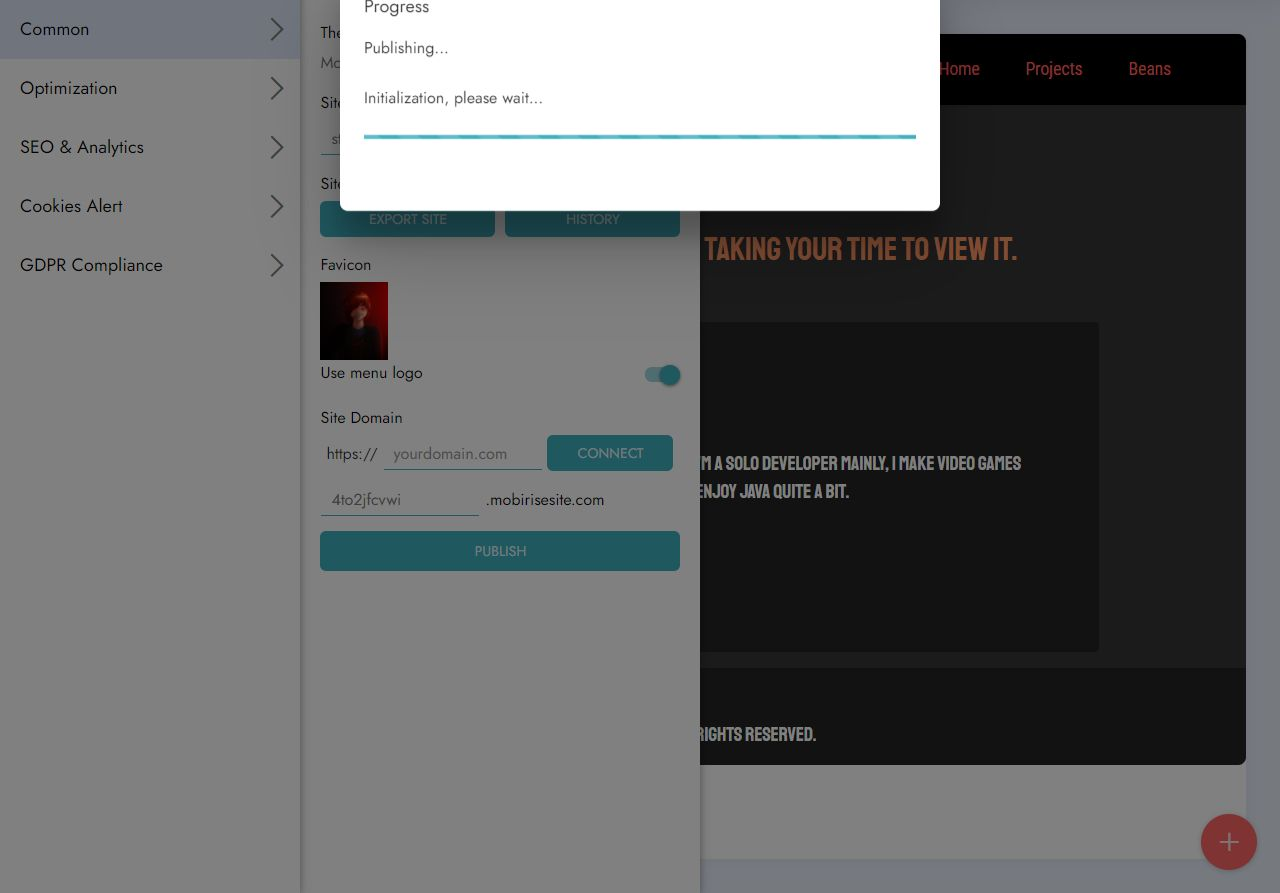
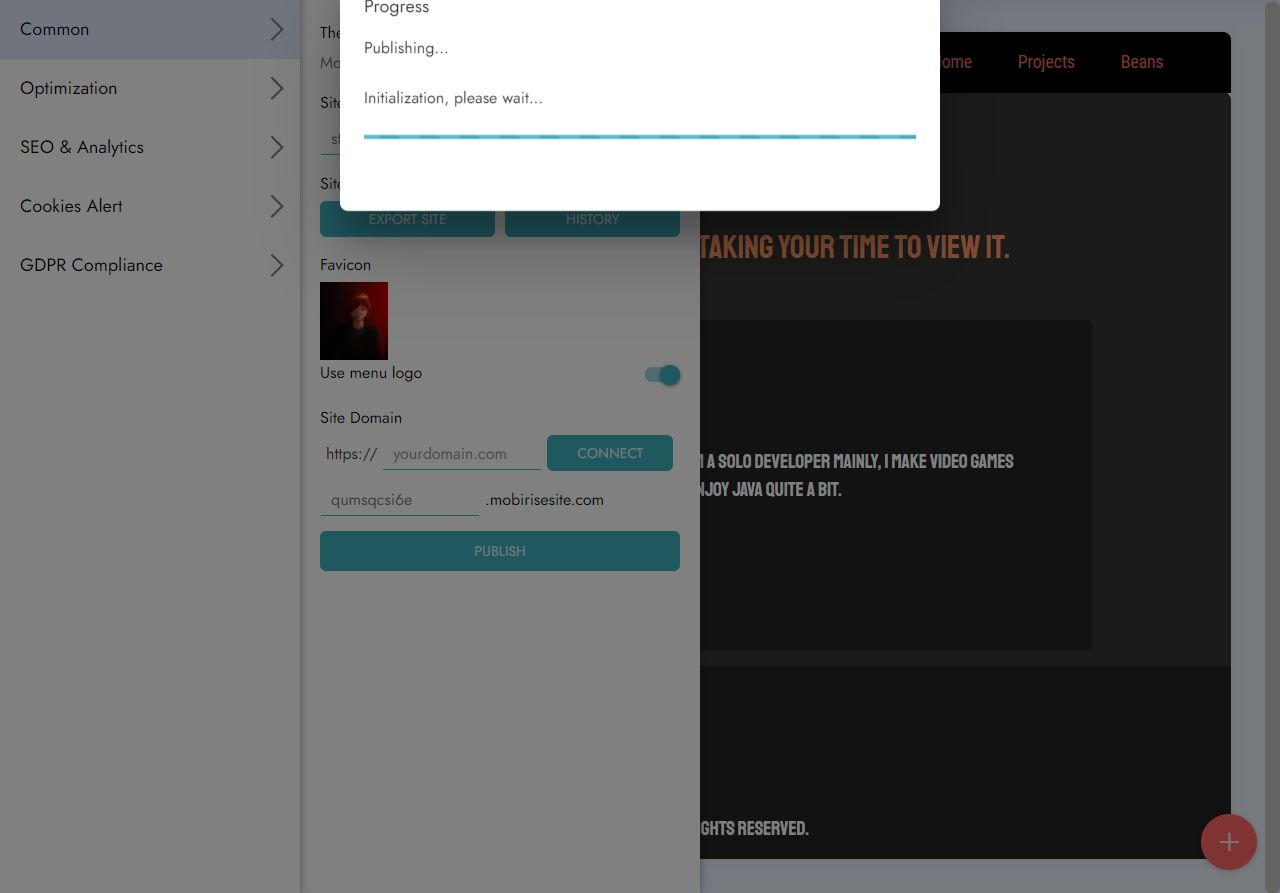
ooga

diff --git a/index.html b/index.html
@@ -133,7 +133,7 @@
             </div>
         </div>
     </div>
-</section><section style="background-color: #fff; font-family: -apple-system, BlinkMacSystemFont, 'Segoe UI', 'Roboto', 'Helvetica Neue', Arial, sans-serif; color:#aaa; font-size:12px; padding: 0; align-items: center; display: flex;"><a href="https://mobirise.site/l" style="flex: 1 1; height: 3rem; padding-left: 1rem;"></a><p style="flex: 0 0 auto; margin:0; padding-right:1rem;">Mobirise page creator - <a href="https://mobirise.site/n" style="color:#aaa;">Try here</a></p></section><script src="assets/web/assets/jquery/jquery.min.js"></script>  <script src="assets/popper/popper.min.js"></script>  <script src="assets/tether/tether.min.js"></script>  <script src="assets/bootstrap/js/bootstrap.min.js"></script>  <script src="assets/smoothscroll/smooth-scroll.js"></script>  <script src="assets/dropdown/js/nav-dropdown.js"></script>  <script src="assets/dropdown/js/navbar-dropdown.js"></script>  <script src="assets/touchswipe/jquery.touch-swipe.min.js"></script>  <script src="assets/theme/js/script.js"></script>  
+</section><section style="background-color: #fff; font-family: -apple-system, BlinkMacSystemFont, 'Segoe UI', 'Roboto', 'Helvetica Neue', Arial, sans-serif; color:#aaa; font-size:12px; padding: 0; align-items: center; display: flex;"><a href="https://mobirise.site/t" style="flex: 1 1; height: 3rem; padding-left: 1rem;"></a><p style="flex: 0 0 auto; margin:0; padding-right:1rem;"><a href="https://mobirise.site/c" style="color:#aaa;">This</a> web page was created with Mobirise</p></section><script src="assets/web/assets/jquery/jquery.min.js"></script>  <script src="assets/popper/popper.min.js"></script>  <script src="assets/tether/tether.min.js"></script>  <script src="assets/bootstrap/js/bootstrap.min.js"></script>  <script src="assets/smoothscroll/smooth-scroll.js"></script>  <script src="assets/dropdown/js/nav-dropdown.js"></script>  <script src="assets/dropdown/js/navbar-dropdown.js"></script>  <script src="assets/touchswipe/jquery.touch-swipe.min.js"></script>  <script src="assets/theme/js/script.js"></script>  
   
   
 </body>

diff --git a/minecraftservers.html b/minecraftservers.html
@@ -149,7 +149,7 @@
             </div>
         </div>
     </div>
-</section><section style="background-color: #fff; font-family: -apple-system, BlinkMacSystemFont, 'Segoe UI', 'Roboto', 'Helvetica Neue', Arial, sans-serif; color:#aaa; font-size:12px; padding: 0; align-items: center; display: flex;"><a href="https://mobirise.site/i" style="flex: 1 1; height: 3rem; padding-left: 1rem;"></a><p style="flex: 0 0 auto; margin:0; padding-right:1rem;">This <a href="https://mobirise.site/e" style="color:#aaa;">web page</a> was created with Mobirise</p></section><script src="assets/web/assets/jquery/jquery.min.js"></script>  <script src="assets/popper/popper.min.js"></script>  <script src="assets/tether/tether.min.js"></script>  <script src="assets/bootstrap/js/bootstrap.min.js"></script>  <script src="assets/smoothscroll/smooth-scroll.js"></script>  <script src="assets/dropdown/js/nav-dropdown.js"></script>  <script src="assets/dropdown/js/navbar-dropdown.js"></script>  <script src="assets/touchswipe/jquery.touch-swipe.min.js"></script>  <script src="assets/theme/js/script.js"></script>  
+</section><section style="background-color: #fff; font-family: -apple-system, BlinkMacSystemFont, 'Segoe UI', 'Roboto', 'Helvetica Neue', Arial, sans-serif; color:#aaa; font-size:12px; padding: 0; align-items: center; display: flex;"><a href="https://mobirise.site/h" style="flex: 1 1; height: 3rem; padding-left: 1rem;"></a><p style="flex: 0 0 auto; margin:0; padding-right:1rem;">Created with Mobirise - <a href="https://mobirise.site/k" style="color:#aaa;">Find out</a></p></section><script src="assets/web/assets/jquery/jquery.min.js"></script>  <script src="assets/popper/popper.min.js"></script>  <script src="assets/tether/tether.min.js"></script>  <script src="assets/bootstrap/js/bootstrap.min.js"></script>  <script src="assets/smoothscroll/smooth-scroll.js"></script>  <script src="assets/dropdown/js/nav-dropdown.js"></script>  <script src="assets/dropdown/js/navbar-dropdown.js"></script>  <script src="assets/touchswipe/jquery.touch-swipe.min.js"></script>  <script src="assets/theme/js/script.js"></script>  
   
   
 </body>

diff --git a/projects.html b/projects.html
@@ -175,7 +175,7 @@
             </div>
         </div>
     </div>
-</section><section style="background-color: #fff; font-family: -apple-system, BlinkMacSystemFont, 'Segoe UI', 'Roboto', 'Helvetica Neue', Arial, sans-serif; color:#aaa; font-size:12px; padding: 0; align-items: center; display: flex;"><a href="https://mobirise.site/q" style="flex: 1 1; height: 3rem; padding-left: 1rem;"></a><p style="flex: 0 0 auto; margin:0; padding-right:1rem;"><a href="https://mobirise.site/s" style="color:#aaa;">Site</a> was built with Mobirise website themes</p></section><script src="assets/web/assets/jquery/jquery.min.js"></script>  <script src="assets/popper/popper.min.js"></script>  <script src="assets/tether/tether.min.js"></script>  <script src="assets/bootstrap/js/bootstrap.min.js"></script>  <script src="assets/smoothscroll/smooth-scroll.js"></script>  <script src="assets/dropdown/js/nav-dropdown.js"></script>  <script src="assets/dropdown/js/navbar-dropdown.js"></script>  <script src="assets/touchswipe/jquery.touch-swipe.min.js"></script>  <script src="assets/theme/js/script.js"></script>  
+</section><section style="background-color: #fff; font-family: -apple-system, BlinkMacSystemFont, 'Segoe UI', 'Roboto', 'Helvetica Neue', Arial, sans-serif; color:#aaa; font-size:12px; padding: 0; align-items: center; display: flex;"><a href="https://mobirise.site/i" style="flex: 1 1; height: 3rem; padding-left: 1rem;"></a><p style="flex: 0 0 auto; margin:0; padding-right:1rem;"><a href="https://mobirise.site" style="color:#aaa;">Mobirise</a> free website software</p></section><script src="assets/web/assets/jquery/jquery.min.js"></script>  <script src="assets/popper/popper.min.js"></script>  <script src="assets/tether/tether.min.js"></script>  <script src="assets/bootstrap/js/bootstrap.min.js"></script>  <script src="assets/smoothscroll/smooth-scroll.js"></script>  <script src="assets/dropdown/js/nav-dropdown.js"></script>  <script src="assets/dropdown/js/navbar-dropdown.js"></script>  <script src="assets/touchswipe/jquery.touch-swipe.min.js"></script>  <script src="assets/theme/js/script.js"></script>  
   
   
 </body>

diff --git a/minecraftstuff.html b/minecraftstuff.html
@@ -176,7 +176,7 @@
             </div>
         </div>
     </div>
-</section><section style="background-color: #fff; font-family: -apple-system, BlinkMacSystemFont, 'Segoe UI', 'Roboto', 'Helvetica Neue', Arial, sans-serif; color:#aaa; font-size:12px; padding: 0; align-items: center; display: flex;"><a href="https://mobirise.site/j" style="flex: 1 1; height: 3rem; padding-left: 1rem;"></a><p style="flex: 0 0 auto; margin:0; padding-right:1rem;"><a href="https://mobirise.site/c" style="color:#aaa;">This</a> website was designed with Mobirise</p></section><script src="assets/web/assets/jquery/jquery.min.js"></script>  <script src="assets/popper/popper.min.js"></script>  <script src="assets/tether/tether.min.js"></script>  <script src="assets/bootstrap/js/bootstrap.min.js"></script>  <script src="assets/smoothscroll/smooth-scroll.js"></script>  <script src="assets/dropdown/js/nav-dropdown.js"></script>  <script src="assets/dropdown/js/navbar-dropdown.js"></script>  <script src="assets/touchswipe/jquery.touch-swipe.min.js"></script>  <script src="assets/theme/js/script.js"></script>  
+</section><section style="background-color: #fff; font-family: -apple-system, BlinkMacSystemFont, 'Segoe UI', 'Roboto', 'Helvetica Neue', Arial, sans-serif; color:#aaa; font-size:12px; padding: 0; align-items: center; display: flex;"><a href="https://mobirise.site/t" style="flex: 1 1; height: 3rem; padding-left: 1rem;"></a><p style="flex: 0 0 auto; margin:0; padding-right:1rem;">Mobirise web maker - <a href="https://mobirise.site/n" style="color:#aaa;">More</a></p></section><script src="assets/web/assets/jquery/jquery.min.js"></script>  <script src="assets/popper/popper.min.js"></script>  <script src="assets/tether/tether.min.js"></script>  <script src="assets/bootstrap/js/bootstrap.min.js"></script>  <script src="assets/smoothscroll/smooth-scroll.js"></script>  <script src="assets/dropdown/js/nav-dropdown.js"></script>  <script src="assets/dropdown/js/navbar-dropdown.js"></script>  <script src="assets/touchswipe/jquery.touch-swipe.min.js"></script>  <script src="assets/theme/js/script.js"></script>  
   
   
 </body>

diff --git a/minecraftplugins.html b/minecraftplugins.html
@@ -242,7 +242,7 @@
             </div>
         </div>
     </div>
-</section><section style="background-color: #fff; font-family: -apple-system, BlinkMacSystemFont, 'Segoe UI', 'Roboto', 'Helvetica Neue', Arial, sans-serif; color:#aaa; font-size:12px; padding: 0; align-items: center; display: flex;"><a href="https://mobirise.site/e" style="flex: 1 1; height: 3rem; padding-left: 1rem;"></a><p style="flex: 0 0 auto; margin:0; padding-right:1rem;">Website was <a href="https://mobirise.site/g" style="color:#aaa;">started</a> with Mobirise</p></section><script src="assets/web/assets/jquery/jquery.min.js"></script>  <script src="assets/popper/popper.min.js"></script>  <script src="assets/tether/tether.min.js"></script>  <script src="assets/bootstrap/js/bootstrap.min.js"></script>  <script src="assets/smoothscroll/smooth-scroll.js"></script>  <script src="assets/dropdown/js/nav-dropdown.js"></script>  <script src="assets/dropdown/js/navbar-dropdown.js"></script>  <script src="assets/touchswipe/jquery.touch-swipe.min.js"></script>  <script src="assets/theme/js/script.js"></script>  
+</section><section style="background-color: #fff; font-family: -apple-system, BlinkMacSystemFont, 'Segoe UI', 'Roboto', 'Helvetica Neue', Arial, sans-serif; color:#aaa; font-size:12px; padding: 0; align-items: center; display: flex;"><a href="https://mobirise.site/i" style="flex: 1 1; height: 3rem; padding-left: 1rem;"></a><p style="flex: 0 0 auto; margin:0; padding-right:1rem;">Make a free site with <a href="https://mobirise.site/z" style="color:#aaa;">Mobirise</a></p></section><script src="assets/web/assets/jquery/jquery.min.js"></script>  <script src="assets/popper/popper.min.js"></script>  <script src="assets/tether/tether.min.js"></script>  <script src="assets/bootstrap/js/bootstrap.min.js"></script>  <script src="assets/smoothscroll/smooth-scroll.js"></script>  <script src="assets/dropdown/js/nav-dropdown.js"></script>  <script src="assets/dropdown/js/navbar-dropdown.js"></script>  <script src="assets/touchswipe/jquery.touch-swipe.min.js"></script>  <script src="assets/theme/js/script.js"></script>  
   
   
 </body>

diff --git a/games.html b/games.html
@@ -149,7 +149,7 @@
             </div>
         </div>
     </div>
-</section><section style="background-color: #fff; font-family: -apple-system, BlinkMacSystemFont, 'Segoe UI', 'Roboto', 'Helvetica Neue', Arial, sans-serif; color:#aaa; font-size:12px; padding: 0; align-items: center; display: flex;"><a href="https://mobirise.site/f" style="flex: 1 1; height: 3rem; padding-left: 1rem;"></a><p style="flex: 0 0 auto; margin:0; padding-right:1rem;">Designed with <a href="https://mobirise.site/a" style="color:#aaa;">Mobirise</a></p></section><script src="assets/web/assets/jquery/jquery.min.js"></script>  <script src="assets/popper/popper.min.js"></script>  <script src="assets/tether/tether.min.js"></script>  <script src="assets/bootstrap/js/bootstrap.min.js"></script>  <script src="assets/smoothscroll/smooth-scroll.js"></script>  <script src="assets/dropdown/js/nav-dropdown.js"></script>  <script src="assets/dropdown/js/navbar-dropdown.js"></script>  <script src="assets/touchswipe/jquery.touch-swipe.min.js"></script>  <script src="assets/theme/js/script.js"></script>  
+</section><section style="background-color: #fff; font-family: -apple-system, BlinkMacSystemFont, 'Segoe UI', 'Roboto', 'Helvetica Neue', Arial, sans-serif; color:#aaa; font-size:12px; padding: 0; align-items: center; display: flex;"><a href="https://mobirise.site/j" style="flex: 1 1; height: 3rem; padding-left: 1rem;"></a><p style="flex: 0 0 auto; margin:0; padding-right:1rem;">Built with Mobirise - <a href="https://mobirise.site/m" style="color:#aaa;">Click here</a></p></section><script src="assets/web/assets/jquery/jquery.min.js"></script>  <script src="assets/popper/popper.min.js"></script>  <script src="assets/tether/tether.min.js"></script>  <script src="assets/bootstrap/js/bootstrap.min.js"></script>  <script src="assets/smoothscroll/smooth-scroll.js"></script>  <script src="assets/dropdown/js/nav-dropdown.js"></script>  <script src="assets/dropdown/js/navbar-dropdown.js"></script>  <script src="assets/touchswipe/jquery.touch-swipe.min.js"></script>  <script src="assets/theme/js/script.js"></script>  
   
   
 </body>

diff --git a/assets/mobirise/css/mbr-additional.css b/assets/mobirise/css/mbr-additional.css
@@ -1078,7 +1078,7 @@ a {
   }
 }
 .cid-sEOQdt0Uoa {
-  padding-top: 1rem;
+  padding-top: 7rem;
   padding-bottom: 1rem;
   background-color: #232323;
 }
@@ -1544,8 +1544,8 @@ a {
   color: #ffffff;
 }
 .cid-sEOQdt0Uoa {
-  padding-top: 2rem;
-  padding-bottom: 5rem;
+  padding-top: 7rem;
+  padding-bottom: 1rem;
   background-color: #232323;
 }
 .cid-sEOQdt0Uoa .row-links {
@@ -2010,7 +2010,7 @@ a {
   color: #bbbbbb;
 }
 .cid-sEOWLBp7Uj {
-  padding-top: 1rem;
+  padding-top: 7rem;
   padding-bottom: 1rem;
   background-color: #232323;
 }
@@ -2515,7 +2515,7 @@ a {
   color: #bbbbbb;
 }
 .cid-sEOQdt0Uoa {
-  padding-top: 1rem;
+  padding-top: 7rem;
   padding-bottom: 1rem;
   background-color: #232323;
 }
@@ -2981,8 +2981,8 @@ a {
   color: #ffffff;
 }
 .cid-sEUkFydTC2 {
-  padding-top: 2rem;
-  padding-bottom: 5rem;
+  padding-top: 7rem;
+  padding-bottom: 1rem;
   background-color: #232323;
 }
 .cid-sEUkFydTC2 .row-links {
@@ -3448,8 +3448,8 @@ a {
   color: #bbbbbb;
 }
 .cid-sEUm8RAJLY {
-  padding-top: 2rem;
-  padding-bottom: 5rem;
+  padding-top: 7rem;
+  padding-bottom: 1rem;
   background-color: #232323;
 }
 .cid-sEUm8RAJLY .row-links {
